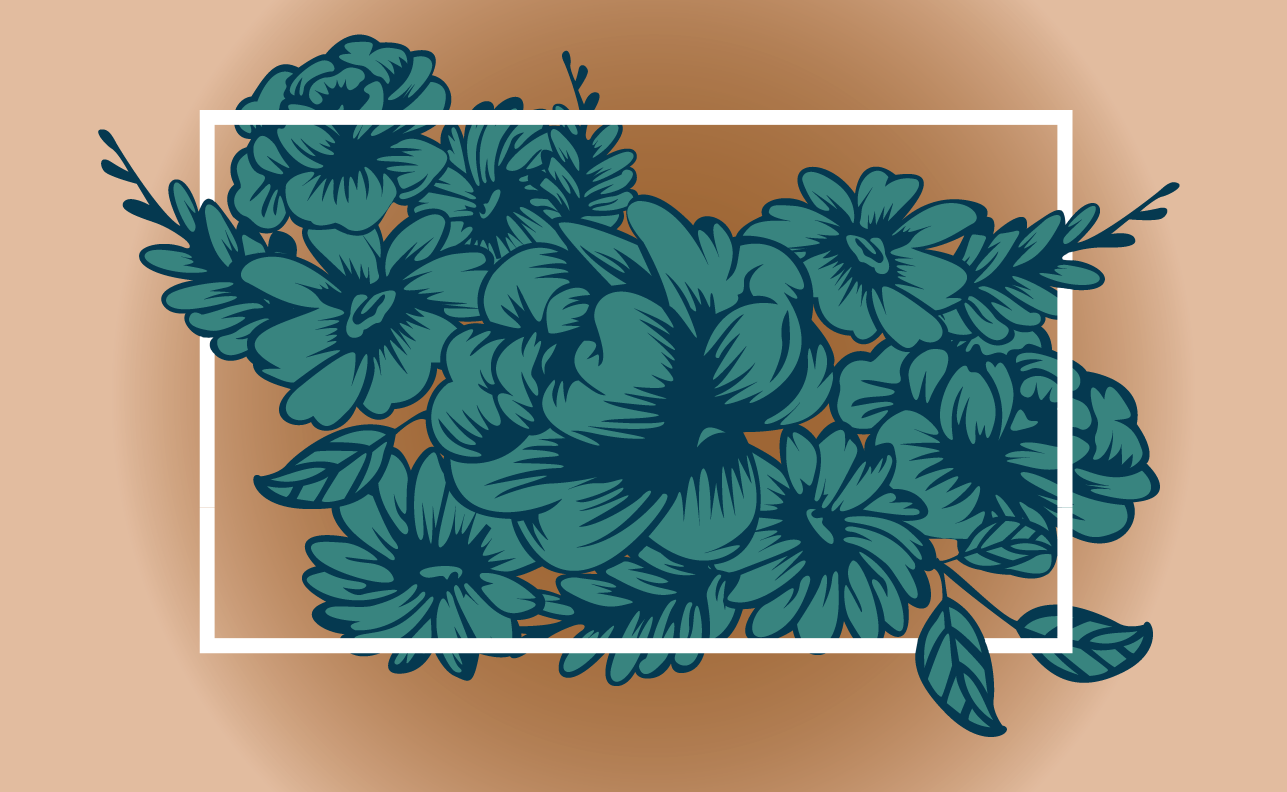
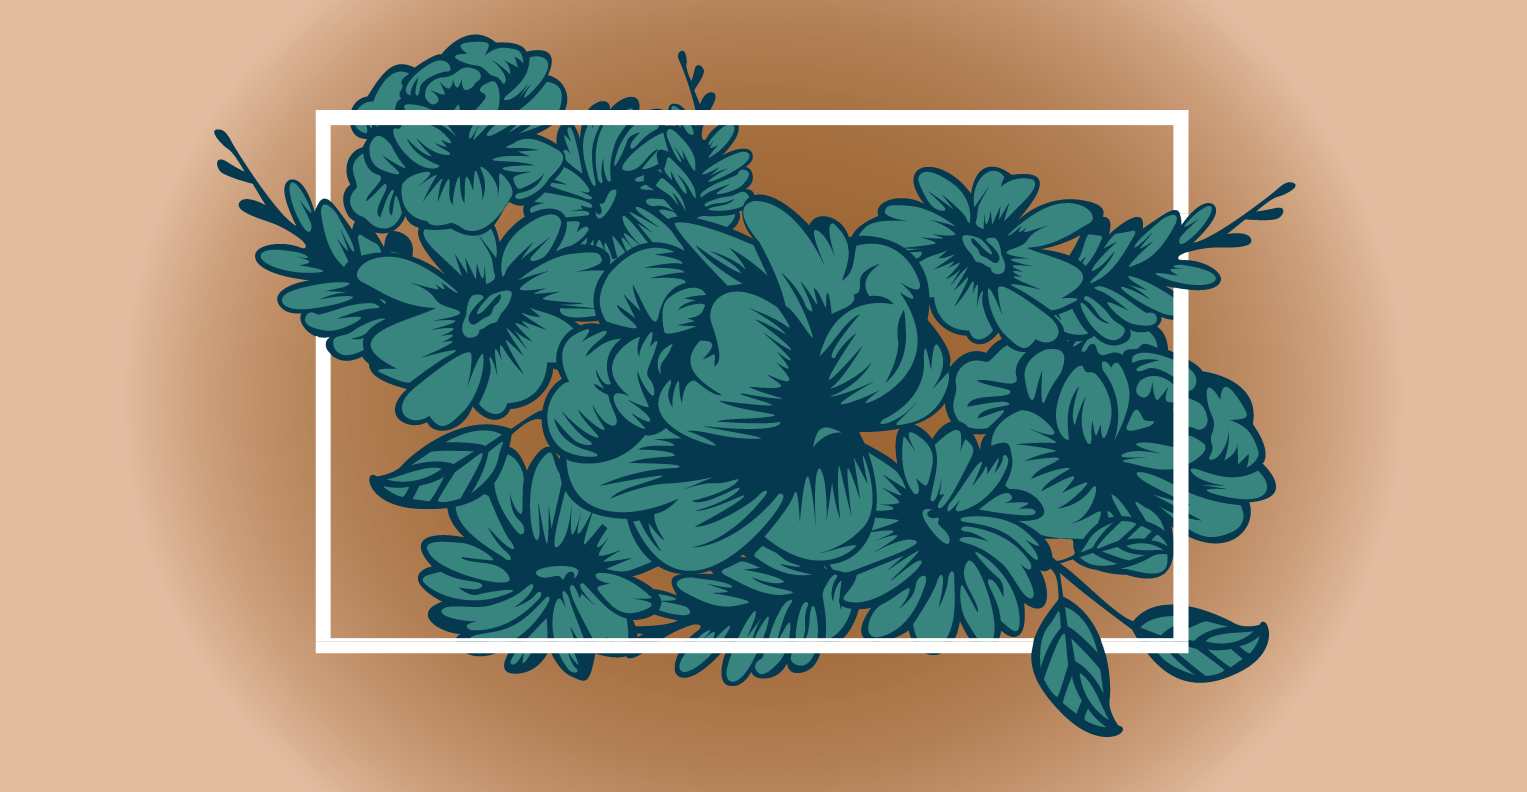
cover

Changed region(s): [[0.0622, 0.0303, 0.9324, 0.9394]]

diff --git a/css/styles.css b/css/styles.css
@@ -14,10 +14,11 @@ body{
 }
 
 header {
-  background-image: url(../img/cover2.png);
+  background:#013950;
   background-repeat: no-repeat;
-  height: 100%;
-  width: 100%;
+  height: 790px;
+  background-image: url("../img/cover2.png");
+  background-size: cover;
 }
 
 /*NAVIGATION*/
@@ -57,6 +58,8 @@ font-family: 'Sofia', cursive;
   font-family: 'Oswald', sans-serif;
   color: white;
   text-align: center;
+  width: 50%;
+  margin: auto;
   
 }
 
